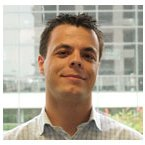
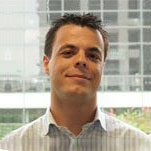
added more space to connect/footer area and removed white space from one of the clients image

diff --git a/css/main.css b/css/main.css
@@ -130,7 +130,6 @@ li.active {
 }
 .glyphicon-chevron-down {
 	top: 100%;
-	/*bottom: 0;*/
 }
 .glyphicon-chevron-up:hover, 
 .glyphicon-chevron-down:hover {
@@ -251,7 +250,7 @@ li.active {
 }
 /* contact */
 .contact {
-	padding-bottom: 50px;
+	padding-bottom: 450px;
 	background: #333;
 	color: #fff;
 }
